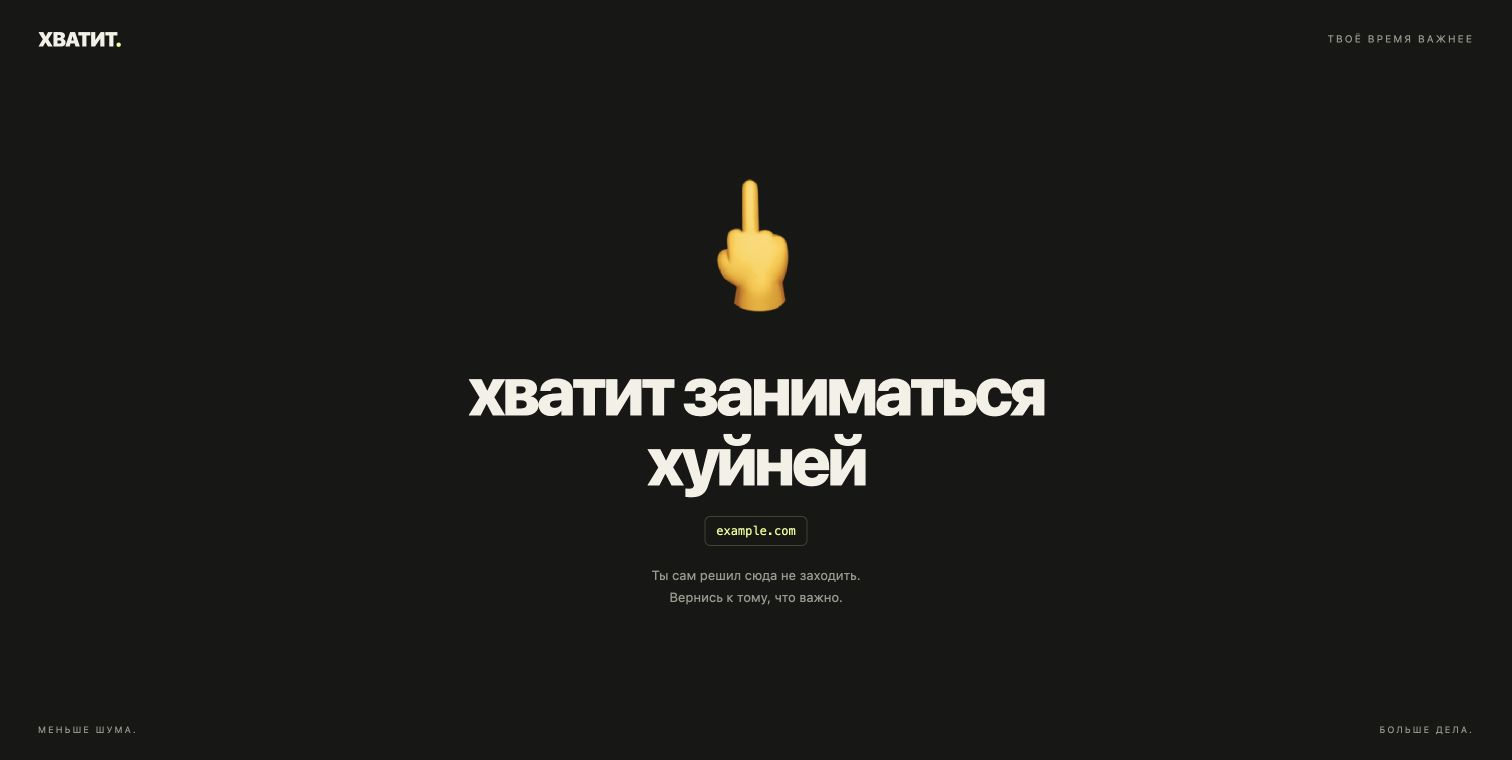
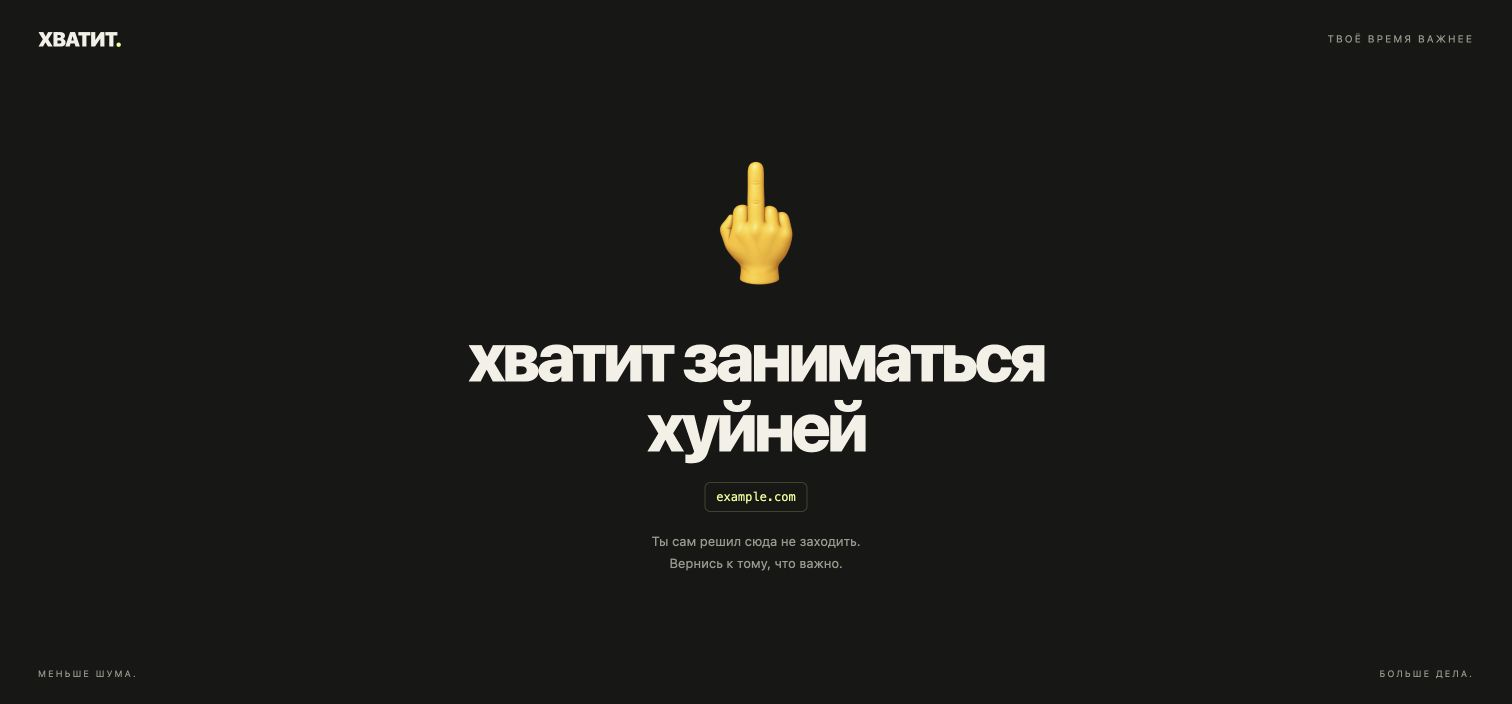
Replace enlarged emoji with high-resolution transparent hand image

diff --git a/blocked.css b/blocked.css
@@ -7,7 +7,8 @@ header { display: flex; align-items: center; justify-content: space-between; pad
 .header-note { color: var(--muted); font-size: 10px; letter-spacing: 2px; }
 main { display: grid; place-items: center; flex: 1; padding: 24px; }
 .message { text-align: center; width: min(100%, 820px); }
-.gesture { font-family: "Apple Color Emoji", "Segoe UI Emoji", "Noto Color Emoji", sans-serif; font-size: clamp(110px, 18vh, 190px); line-height: 1.2; margin: 0 auto 22px; }
+.gesture { display: grid; place-items: center; font-size: clamp(110px, 18vh, 190px); height: 1.2em; margin: 0 auto 22px; }
+.gesture img { display: block; width: auto; height: 1.05em; max-width: 100%; object-fit: contain; }
 h1 { font-size: clamp(32px, 5.4vw, 68px); line-height: 1.03; font-weight: 800; letter-spacing: -.055em; margin: 0; }
 .domain { display: inline-block; max-width: 100%; color: var(--accent); font: 12px ui-monospace, SFMono-Regular, Consolas, monospace; overflow-wrap: anywhere; margin: 21px 0 0; padding: 7px 11px; border: 1px solid #3e4330; border-radius: 6px; }
 .subtext { color: var(--muted); font-size: 13px; line-height: 1.7; margin: 18px 0 0; }

diff --git a/blocked.html b/blocked.html
@@ -6,14 +6,14 @@
   <meta name="color-scheme" content="dark">
   <meta name="referrer" content="no-referrer">
   <title>хватит заниматься хуйней</title>
-  <link rel="stylesheet" href="blocked.css">
+  <link rel="stylesheet" href="blocked.css?v=1.1.1">
   <script src="blocked.js" defer></script>
 </head>
 <body>
   <header><span class="brand">ХВАТИТ<span>.</span></span><span class="header-note">ТВОЁ ВРЕМЯ ВАЖНЕЕ</span></header>
   <main>
     <div class="message">
-      <div class="gesture" role="img" aria-label="Средний палец">🖕</div>
+      <div class="gesture"><img src="assets/middle-finger.png" alt="🖕 — средний палец" width="1024" height="1536"></div>
       <h1>хватит заниматься<br>хуйней</h1>
       <p id="domain" class="domain" hidden></p>
       <p class="subtext">Ты сам решил сюда не заходить.<br>Вернись к тому, что важно.</p>

diff --git a/assets/README.md b/assets/README.md
@@ -1,0 +1,24 @@
+# Иллюстрация среднего пальца
+
+Файл: `middle-finger.png`, 1024 × 1536, PNG с прозрачностью. Создан встроенным инструментом ImageGen для страницы блокировки; CLI и внешние API не использовались. Отображается уменьшенным с сохранением пропорций, чтобы оставаться чётким на Retina-экранах.
+
+## Исходный промпт
+
+```text
+Use case: stylized-concept.
+Asset type: a single high-resolution transparent PNG icon for a Chrome extension blocking page.
+Primary request: recreate the familiar yellow middle-finger hand emoji 🖕 as a very sharp, polished 3D emoji-style illustration. One upright yellow hand, back of the hand facing the viewer, middle finger extended straight up, other fingers folded into a compact fist, thumb curled at the left edge, short visible wrist with a clean softly curved cutoff. Keep the classic emoji silhouette, friendly smooth rounded anatomy, elongated slender middle finger, warm golden yellow material, soft natural shading and subtle highlights. The hand should look like the standard yellow middle-finger emoji, just far higher quality, not a different gesture.
+Composition: isolated complete hand and wrist, centered. Portrait transparent canvas, minimum 1024 pixels tall. Hand fills about 92% of the canvas height with a small even transparent margin. No cropping of the fingertip or wrist. Back of hand rather than palm; no visible front-facing fingernail on the extended finger.
+Quality: crisp anti-aliased contours, high-resolution clean smooth shading, no pixelation, no blur, no grain. This will be displayed at 100–190 CSS pixels high on a dark background, so preserve a clean silhouette.
+Background: genuinely transparent alpha, no colored backdrop, no checkerboard baked in, no ground plane, no cast shadow outside the hand, no glow or border.
+Constraints: exactly one hand and one extended middle finger; no extra fingers, jewelry, sleeves, words, logos, watermark, background or other objects.
+```
+
+## Финальная правка прозрачности
+
+К сгенерированному изображению применён следующий промпт встроенным ImageGen с `transparent_background: true`:
+
+```text
+Use case: background-extraction.
+Edit the supplied yellow middle-finger hand image. KEEP the complete hand itself exactly as it is: same shape, same finger pose, same yellow colors, same shading, same framing and high detail. Change ONLY the exterior background and silhouette edges. Remove ALL of the golden glow, yellow haze, black background, and shadow outside the solid hand. Everything outside the actual physical contour of the hand and wrist must have alpha zero (fully transparent). Only a very thin normal anti-aliasing edge is allowed at the hand boundary. This is a clean UI cutout, not an illuminated object: no aura, no halo, no bloom, no shadow, no backdrop, no checkerboard pattern. Return a high-resolution transparent PNG, ideally the same 1024 by 1536 canvas. Preserve the complete fingertip and wrist; do not crop them. Do not change the hand.
+```
